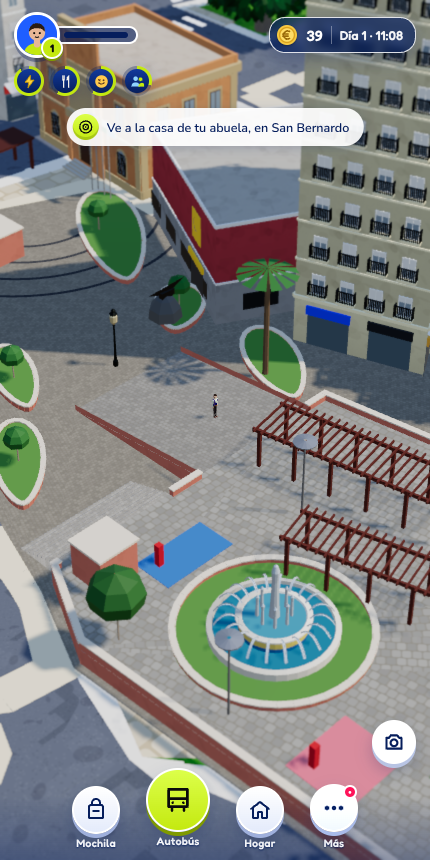
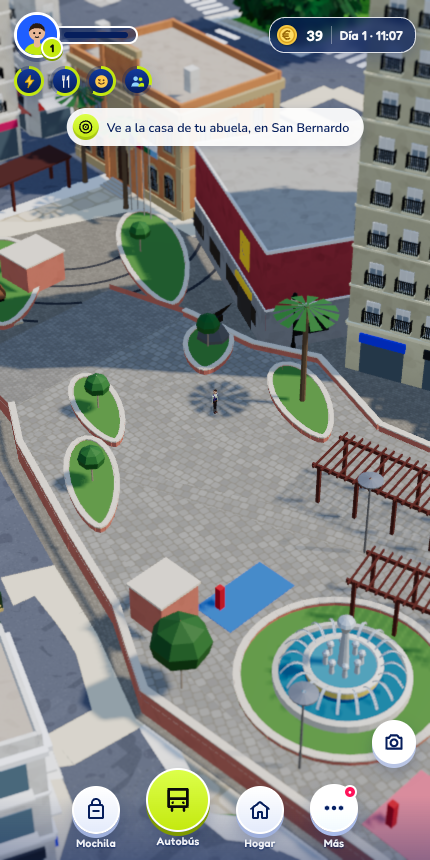
Plaza de la Constitución: rampa al principio del paseo y explanada elevada desde ahí; Comandancia según fotos (dos huecos por lado, friso de rombos, palmeras, chimeneas)
Claude-Session: https://claude.ai/code/session_01CvwTNgzzTWknNCgvSjCLMf

diff --git a/juego/src/mundo/sectores/centro02.ts b/juego/src/mundo/sectores/centro02.ts
@@ -426,20 +426,22 @@ function plazaCruzHerrera(o: Obra, c: Ctx) {
  */
 
 /** Parte baja a nivel de calle (recortada para no pisar Calle Real, la explanada, la rampa ni los edificios). */
-const PC_BAJA: P2[][] = [[[1247.0, 2196.0], [1243.0, 2203.0], [1239.5, 2213.0], [1237.6, 2219.0], [1235.0, 2225.0], [1236.0, 2247.0], [1240.0, 2253.5], [1244.4, 2253.8], [1240.0, 2252.0], [1236.5, 2247.0], [1235.5, 2225.0], [1238.5, 2219.0], [1250.5, 2219.0], [1250.5, 2207.0], [1260.5, 2207.0], [1260.5, 2219.0], [1262.5, 2219.0], [1265.0, 2236.0], [1265.0, 2246.0], [1270.0, 2249.0], [1270.0, 2254.0], [1263.8, 2254.0], [1263.8, 2255.0], [1271.0, 2255.5], [1290.0, 2255.0], [1290.2, 2251.9], [1288.6, 2252.8], [1283.8, 2246.0], [1286.4, 2244.8], [1284.6, 2242.0], [1287.0, 2240.5], [1283.7, 2227.4], [1281.9, 2228.4], [1278.7, 2223.4], [1275.9, 2224.8], [1273.0, 2219.8], [1270.6, 2221.2], [1267.4, 2211.7], [1272.0, 2210.8], [1288.5, 2220.6], [1286.0, 2214.0], [1279.6, 2203.0], [1275.1, 2211.5], [1264.8, 2206.3], [1272.7, 2191.2], [1272.6, 2191.0], [1273.0, 2184.5], [1264.7, 2181.1], [1253.5, 2177.2], [1251.8, 2180.8], [1249.7, 2179.8], [1249.0, 2190.0]]];
+const PC_BAJA: P2[][] = [[[1247.0, 2196.0], [1243.0, 2203.0], [1239.5, 2213.0], [1237.6, 2219.0], [1235.0, 2225.0], [1236.0, 2247.0], [1240.0, 2253.5], [1244.4, 2253.8], [1240.0, 2252.0], [1236.5, 2247.0], [1235.5, 2225.0], [1238.8, 2219.0], [1241.0, 2212.5], [1244.3, 2203.6], [1246.5, 2200.0], [1248.5, 2192.0], [1262.5, 2192.0], [1263.5, 2206.5], [1265.5, 2211.0], [1262.5, 2219.0], [1265.0, 2236.0], [1265.0, 2246.0], [1270.0, 2249.0], [1270.0, 2254.0], [1263.8, 2254.0], [1263.8, 2255.0], [1271.0, 2255.5], [1290.0, 2255.0], [1290.2, 2251.9], [1288.6, 2252.8], [1283.8, 2246.0], [1286.4, 2244.8], [1284.6, 2242.0], [1287.0, 2240.5], [1283.7, 2227.4], [1281.9, 2228.4], [1278.7, 2223.4], [1275.9, 2224.8], [1273.0, 2219.8], [1270.6, 2221.2], [1267.4, 2211.7], [1272.0, 2210.8], [1288.5, 2220.6], [1286.0, 2214.0], [1279.6, 2203.0], [1275.1, 2211.5], [1264.8, 2206.3], [1272.7, 2191.2], [1272.6, 2191.0], [1273.0, 2184.5], [1264.7, 2181.1], [1253.5, 2177.2], [1251.8, 2180.8], [1249.7, 2179.8], [1249.0, 2190.0]]];
 /** Explanada sobre el parking (vista cenital del usuario). Aristas sin muro: escaleras, rampa y boca del parking. */
-const PC_ALTA: P2[] = [[1238.5, 2219.0], [1239.0, 2219.0], [1248.0, 2219.0], [1250.5, 2219.0], [1260.5, 2219.0], [1262.5, 2219.0], [1265.0, 2236.0], [1265.0, 2239.5], [1265.0, 2246.0], [1270.0, 2249.0], [1270.0, 2254.0], [1263.8, 2254.0], [1263.8, 2247.0], [1259.8, 2247.0], [1259.8, 2254.0], [1245.0, 2254.0], [1240.0, 2252.0], [1236.5, 2247.0], [1235.5, 2225.0]];
-const SIN_MURO = new Set([1, 3, 6, 12]);
+const PC_ALTA: P2[] = [[1246.5, 2200], [1263, 2200], [1263.5, 2206.5], [1265.5, 2211.0], [1262.5, 2219], [1265, 2236], [1265, 2239.5], [1265, 2246], [1270, 2249], [1270, 2254], [1263.8, 2254], [1263.8, 2247], [1259.8, 2247], [1259.8, 2254], [1245, 2254], [1240, 2252], [1236.5, 2247], [1235.5, 2225], [1238.8, 2219], [1241, 2212.5], [1244.3, 2203.6]];
+const SIN_MURO = new Set([0, 5, 11]);
+/** Rampa de entrada desde Calle Real, al principio del paseo central. */
+const RAMPA_PC: P2[] = [[1248.5, 2192], [1262.5, 2192], [1263, 2200], [1246.5, 2200]];
 const ALTO_PC = 1.5;
 const FUENTE_PC: P2 = [1244.0, 2231.6];
 /** Parterres en lente con bordillo rosa: [centro, semieje largo, semieje corto, ángulo]. */
 const LENTES: [P2, number, number, number][] = [
   [[1257.0, 2185.5], 6.5, 3.6, -0.94],
   [[1268.0, 2191.2], 7.5, 3.0, -1.0],
-  [[1249.8, 2201.3], 4.0, 1.8, -1.14],
-  [[1244.0, 2209.0], 4.5, 2.0, -0.96],
-  [[1264.2, 2203.0], 3.2, 2.2, -0.7],
-  [[1264.0, 2213.0], 4.6, 2.3, -1.06],
+  [[1250.5, 2204.5], 4.0, 1.8, -1.14],
+  [[1245.2, 2210.0], 4.5, 1.9, -0.96],
+  [[1260.8, 2204.5], 3.0, 2.0, -0.7],
+  [[1260.8, 2213.5], 4.4, 2.1, -1.06],
 ];
 const lente = ([c, a, b, ang]: [P2, number, number, number], n = 24): P2[] =>
   Array.from({ length: n }, (_, i) => {
@@ -538,7 +540,7 @@ function fuenteConstitucion(o: Obra, c: Ctx, y: number) {
 
 /** Comandancia (Museo del Istmo, Biblioteca José Riquelme): dos plantas naranjas, cantería, torre central. */
 function comandancia(o: Obra, c: Ctx) {
-  const NAR = C("#E09B66");
+  const NAR = C("#E5965F");
   const PIEDRA = C("#C6AE80");
   const H = 9.6;
   const frente = 3; // arista (1273.9,2188.3)-(1284.2,2189.4)? no: la fachada a la plaza es la oeste
@@ -558,7 +560,8 @@ function comandancia(o: Obra, c: Ctx) {
     o.caja(Mat.Muro, -0.1, H, -0.25, L + 0.1, H + 0.7, 0.05, NAR);
     for (const x of [0.35, L - 0.35]) o.caja(Mat.Detalle, x - 0.35, 0, 0, x + 0.35, H, 0.1, PIEDRA);
     const m = L / 2;
-    const huecos = vanos(L, 3.0, 1.0).filter((x) => !principal || Math.abs(x - m) > 3.2);
+    // Fachada principal: dos huecos a cada lado de la torre (fotos); laterales repartidos.
+    const huecos = principal ? [1.7, 3.9, L - 3.9, L - 1.7] : vanos(L, 2.8, 1.0);
     for (const x of huecos) {
       ventana(o, x, 1.3, 1.1, 2.2, { marco: C("#6A4A32"), recercado: PIEDRA, recercadoAncho: 0.22, arco: true });
       reja(o, x, 1.3, 1.1, 2.0, 0.1, HIERRO);
@@ -580,7 +583,14 @@ function comandancia(o: Obra, c: Ctx) {
       ventana(o, x, H + 0.6, 0.8, 2.0, { marco: C("#6A4A32"), recercado: PIEDRA, recercadoAncho: 0.15 });
       reja(o, x, H + 0.6, 0.8, 0.8, 0.12, C("#D9D9D4"));
     }
+    // Friso de rombos de cantería entre el balcón y la ventana triple.
+    o.caja(Mat.Detalle, m - 2.1, 9.0, 0.35, m + 2.1, 9.7, 0.42, PIEDRA);
+    if (o.fino) for (let x = m - 1.8; x <= m + 1.8; x += 0.6) o.poli(Mat.Detalle, [[x, 9.08, 0.44], [x + 0.26, 9.35, 0.44], [x, 9.62, 0.44], [x - 0.26, 9.35, 0.44]], C("#A8916A"));
     moldura(o, m - 2.75, m + 2.75, H + 3.0, H + 3.6, 0.55, PIEDRA);
+    // Palmeras a ambos lados de la escalinata y chimeneas blancas en la azotea.
+    palmera(o, m - 3.0, 2.4, 8.5);
+    palmera(o, m + 3.0, 2.4, 8.0);
+    for (const x of [1.6, L - 1.6]) o.caja(Mat.Muro, x - 0.45, H + 0.7, -2.8, x + 0.45, H + 2.6, -1.9, C("#EEEBE4"));
     if (o.fino) for (let x = m - 2.5; x < m + 2.5; x += 0.42) o.caja(Mat.Detalle, x, H + 2.85, 0.35, x + 0.2, H + 3.0, 0.75, PIEDRA);
     // Mástiles con banderas a la derecha de la portada.
     const BANDERAS: RGB[][] = [[C("#1F3A93"), C("#1F3A93")], [C("#C8102E"), C("#F1BF00")], [C("#007A3D"), C("#FFFFFF")], [C("#7FB6E0"), C("#FFFFFF")]];
@@ -667,12 +677,12 @@ function plazaConstitucion(o: Obra, c: Ctx) {
     }
   }
   // Escalinata oeste, rampa del paseo central y escalera hacia el patio de La Línea.
-  escalera(o, c, 1239.0, 2215.4, 1248.0, 2219.0, yb, ya, "+z");
   escalera(o, c, 1265.0, 2236.0, 1268.6, 2239.5, yb, ya, "-x");
   enMundo(o, c);
-  o.poli(Mat.Suelo, [[1250.5, yb, 2207.0], [1250.5, ya, 2219.0], [1260.5, ya, 2219.0], [1260.5, yb, 2207.0]], C("#A7A8AA"), 1, 0.4);
-  for (const x of [1250.5, 1260.5]) {
-    const pts: [number, number, number][] = [[x, 0, 2207.0], [x, 0, 2219.0], [x, ya + 0.45, 2219.0], [x, yb + 0.45, 2207.0]];
+  const [r0, r1, r2, r3] = RAMPA_PC;
+  o.poli(Mat.Suelo, [[r0[0], yb, r0[1]], [r3[0], ya, r3[1]], [r2[0], ya, r2[1]], [r1[0], yb, r1[1]]], C("#A7A8AA"), 1, 0.4);
+  for (const [a, b] of [[r0, r3], [r1, r2]]) {
+    const pts: [number, number, number][] = [[a[0], 0, a[1]], [b[0], 0, b[1]], [b[0], ya + 0.45, b[1]], [a[0], yb + 0.45, a[1]]];
     o.poli(Mat.Muro, pts, ROSA);
     o.poli(Mat.Muro, [...pts].reverse(), ROSA);
   }
@@ -700,16 +710,17 @@ function plazaConstitucion(o: Obra, c: Ctx) {
   }
   enMundo(o, c);
   // Parte baja: lentes de césped, caseta rosa, quiosco verde y palmeras.
-  for (const l of LENTES) parterre(o, c, lente(l), yb, 0.4);
+  LENTES.forEach((l, i) => parterre(o, c, lente(l), i < 2 ? yb : ya, 0.4));
   enMundo(o, c, yb);
   o.caja(Mat.Muro, 1257.4, 0, 2185.2, 1261.0, 2.5, 2188.5, ROSA);
   o.caja(Mat.Detalle, 1257.3, 2.5, 2185.1, 1261.1, 2.62, 2188.6, ALBARDILLA);
   torno(o, Mat.Detalle, 1255.6, 0, 2180.3, [[1.3, 0], [1.3, 2.4], [1.45, 2.5], [1.0, 3.1], [0.2, 3.4]], C("#3E5F4A"), 10);
   palmera(o, 1255.0, 2184.0, 10.5);
-  palmera(o, 1262.5, 2213.5, 9.0);
-  for (const [x, z] of [[1249.6, 2201.5], [1267.6, 2190.0], [1264.2, 2203.0], [1244.0, 2209.0]] as P2[]) arbolito(o, x, 0.4, z, 2.6, C("#3F7A36"));
+    arbolito(o, 1267.6, 0.4, 2190.0, 2.6, C("#3F7A36"));
+  for (const [x, z] of [[1250.5, 2204.5], [1260.8, 2204.5], [1245.2, 2210.0]] as P2[]) arbolito(o, x, ya - yb + 0.4, z, 2.6, C("#3F7A36"));
+  palmera(o, 1260.8, 2213.5, 9.0);
   pergola(o, 1259.0, 2174.8, 1271.0, 2177.2, MADERA, C("#5B2E22"));
-  for (const [x, z] of [[1247.0, 2185.5], [1243.5, 2199.5], [1256.0, 2205.0], [1270.0, 2214.0]] as P2[]) farolaFernandina(o, x, z);
+  for (const [x, z] of [[1247.0, 2185.5], [1245.0, 2192.5], [1266.5, 2207.5], [1270.0, 2214.0]] as P2[]) farolaFernandina(o, x, z);
   enMundo(o, c);
   // Explanada: fuente, pérgolas, parques infantiles, árboles y farolas de disco.
   fuenteConstitucion(o, c, ya);
